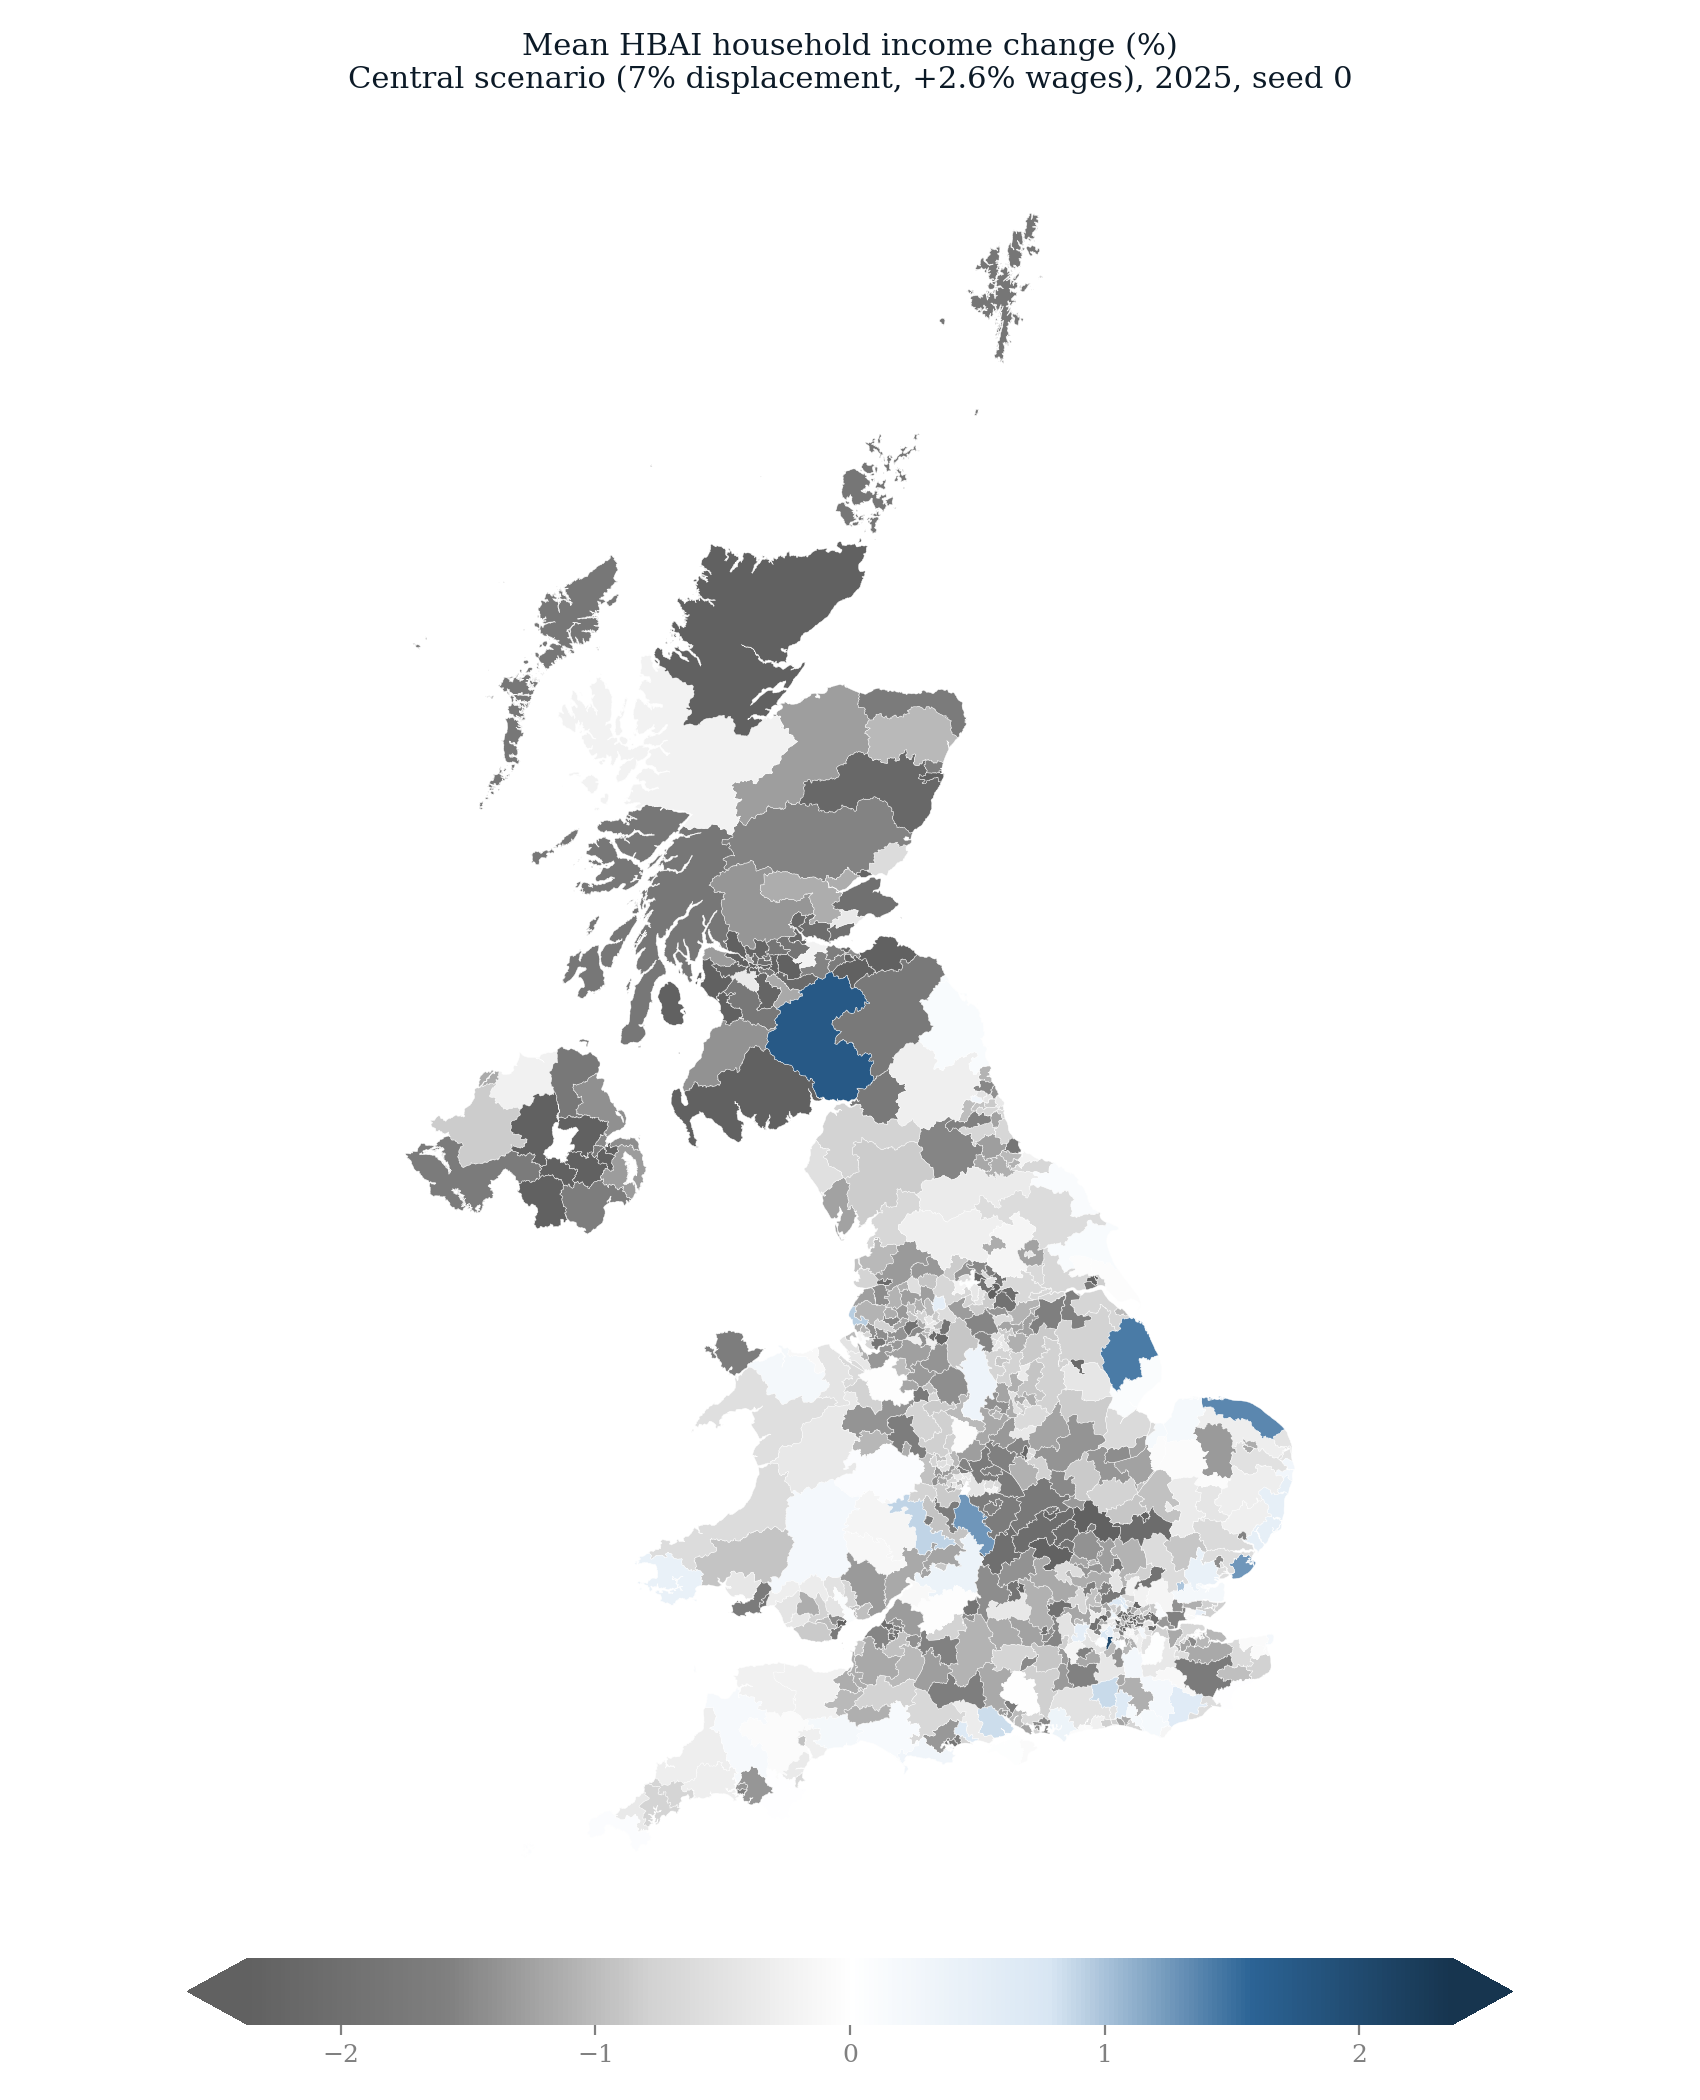
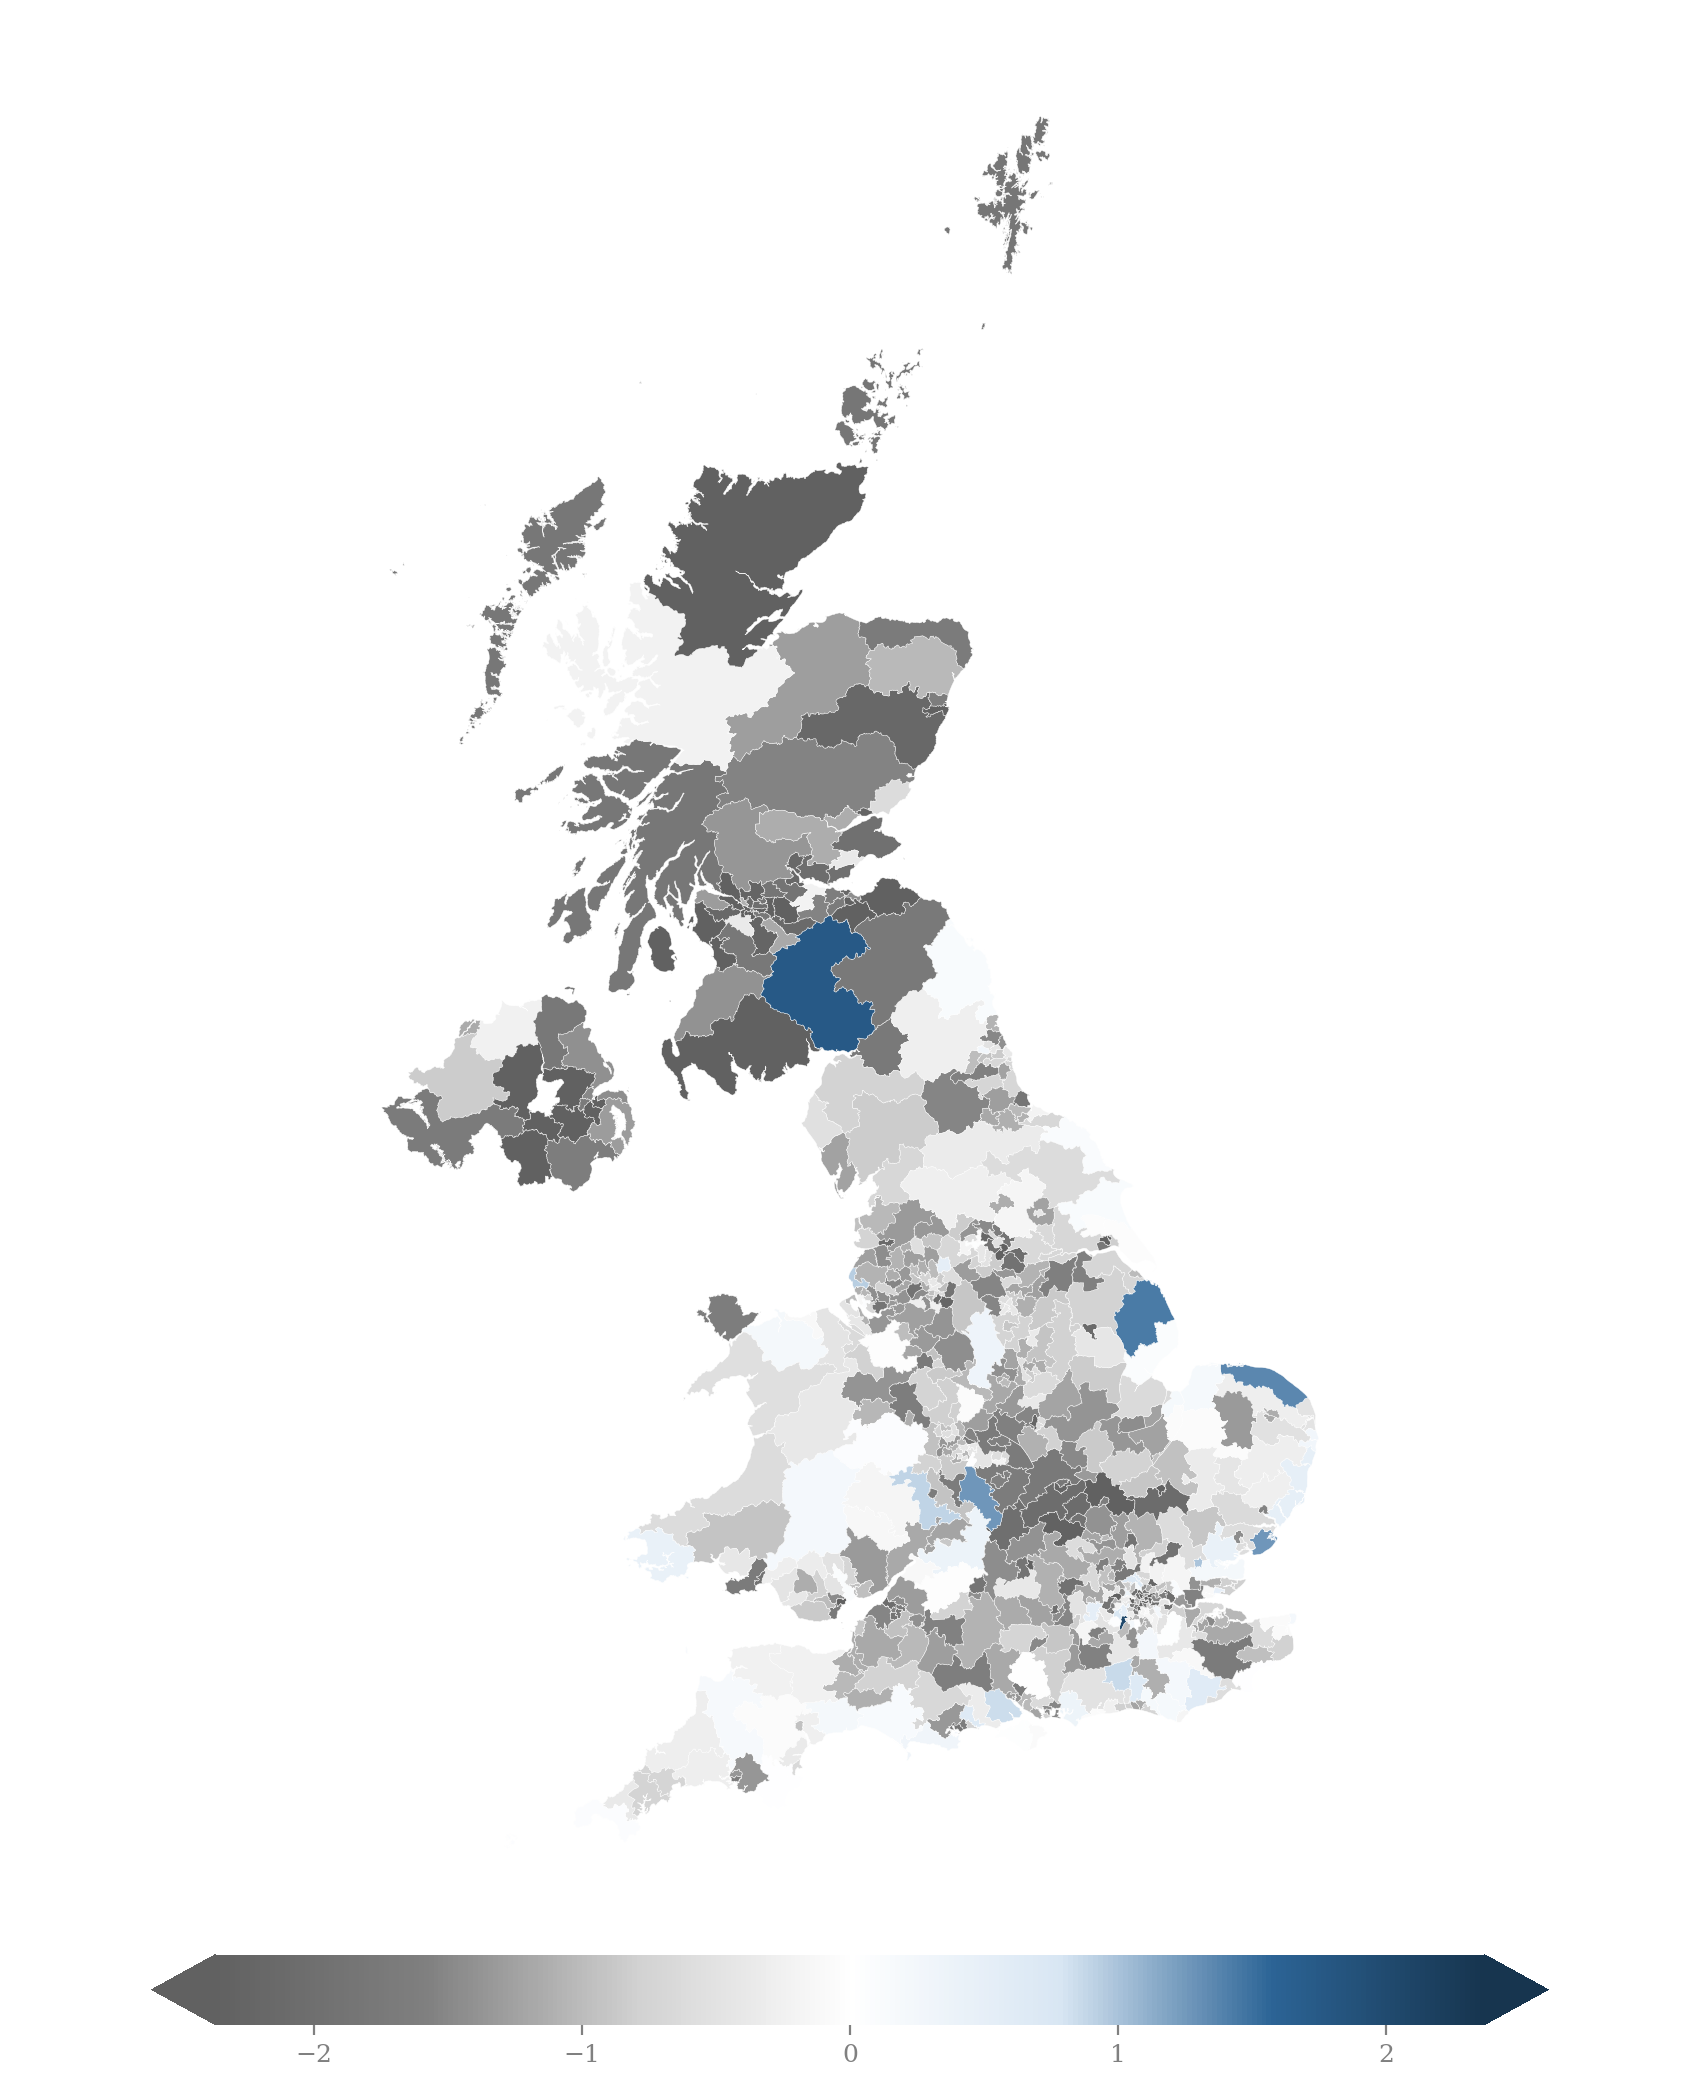
Fig 9 legend/title cleanup and shorter Limitations subsection
- Fig 9 maps: removed the in-figure titles (the caption covers both panels)
  and clipped the displacement scale to the 5th-95th percentile so both
  colourbars share the same capped shape
- Section 6.2 (Limitations and further work) condensed ~35%, all caveats kept

diff --git a/paper/sections/discussion.tex b/paper/sections/discussion.tex
@@ -26,16 +26,16 @@ Taken together, the tax-benefit system converts each market-income shock into a 
 \subsection{Limitations and further work}
 \label{sec:limitations}
 
-Several limitations qualify the results, and I state them plainly by pipeline stage, together with the measurement conventions a reader needs in order to compare my figures with official statistics.
+Several limitations qualify the results; I state them by pipeline stage, with the measurement conventions needed to compare my figures with official statistics.
 
-The first stage is the data and its weighting. All income results are on the HBAI cash disposable income concept at the household level, equivalised, and the poverty and inequality statistics share it; in computing the Gini I bottom-code negative equivalised incomes at zero. My baseline Gini is 0.309, below the official UK figure of roughly 0.34, because I use the plain Family Resources Survey without the Survey of Personal Incomes (SPI) adjustment that corrects for under-coverage of top incomes---so levels should not be compared directly with official statistics, though changes, the objects of interest, are computed on a consistent basis throughout. I also use the uncalibrated FRS grossing weights rather than PolicyEngine's enhanced dataset: the enhanced dataset improves aggregate fiscal accuracy through reweighting and household cloning, but cloning breaks the one-to-one correspondence between records and observed occupations on which the exposure join depends, so aggregate fiscal magnitudes carry the usual caveats attaching to unadjusted survey grossing. Finally, single-draw figures carry displacement-draw noise that the 20-draw averages do not, although the averaged runs indicate the aggregate magnitudes are stable across seeds; the seed conventions are set out in Section~\ref{sec:microsim} and Appendix~\ref{app:seeds}.
+The first stage is the data and its weighting. All results use the HBAI equivalised household disposable income concept, with the Gini computed after bottom-coding negative incomes at zero. My baseline Gini of 0.309 sits below the official 0.34 because I use the plain Family Resources Survey without the Survey of Personal Incomes (SPI) top-income adjustment, so levels are not comparable to official statistics even though the changes I report are computed on a consistent basis. I use the uncalibrated FRS grossing weights rather than PolicyEngine's enhanced dataset, whose household cloning would break the record-to-occupation correspondence the exposure join depends on; aggregate fiscal magnitudes therefore carry the usual survey-grossing caveats. Single-draw figures also carry displacement-draw noise that the 20-draw averages remove (seed conventions in Section~\ref{sec:microsim} and Appendix~\ref{app:seeds}).
 
-On exposure resolution and crosswalk provenance: occupational exposure is assigned at the 1-digit SOC level, because the Family Resources Survey records occupation only at the major-group level; within-group heterogeneity in AI exposure---substantial in the indices of \citet{felten2021}, \citet{webb2019} and \citet{eloundou2023}---is averaged away. The exposure scores themselves reach the FRS through a reconstructed pipeline: the complementarity adjustment is rebuilt from published sources (recovering the published ranking up to a level offset), and the US occupational scores are carried to SOC2020 through a chained SOC2018--SOC2010--ISCO--SOC2020 crosswalk with ASHE employment weights available for 340 of 412 unit groups. A UK-native task-based index (GAISI) built from British Skills and Employment Survey data now exists \citep{henseke2025}; adopting it, together with an imputation of detailed occupation from the Labour Force Survey, would remove the crosswalk and the resolution constraint at once, and is the first item on my agenda.
+Occupational exposure is assigned at the 1-digit SOC level, because the FRS records occupation only at the major-group level, so within-group heterogeneity in exposure \citep{felten2021, webb2019, eloundou2023} is averaged away. The scores also reach the FRS through a reconstructed pipeline---a rebuilt complementarity adjustment and a chained SOC2018--SOC2010--ISCO--SOC2020 crosswalk with ASHE weights for 340 of 412 unit groups. Adopting the UK-native GAISI index \citep{henseke2025} together with detailed-occupation imputation from the Labour Force Survey would remove both the crosswalk and the resolution constraint, and is my first priority.
 
-The displacement treatment is static: displaced workers are fully out of work in the simulated year---earnings, hours, employee pension contributions and salary sacrifice set to zero, no statutory pay, benefit entitlements recomputed under existing rules---while dual jobholders retain self-employment income. The duration structure of unemployment is not modelled, so the exhaustion of contributory benefits (new-style Jobseeker's Allowance is payable for at most six months) cannot be expressed; over longer horizons I overstate the support available to displaced workers without means-tested entitlements. Within the year, the sensitivity runs of Section~\ref{sec:results-aggregates} show duration is first-order---a six-month out-of-work spell cuts the fiscal cost by more than three-quarters and eliminates most of the poverty rise---whereas incomplete benefit take-up moves the headline numbers only marginally.
+The displacement treatment is static: displaced workers are fully out of work for the simulated year (earnings, hours, pension contributions and salary sacrifice zeroed, entitlements recomputed), while dual jobholders keep self-employment income. Unemployment duration is not modelled, so contributory-benefit exhaustion (new-style Jobseeker's Allowance lasts at most six months) is not captured, and over longer horizons I overstate support for displaced workers without means-tested entitlements. The sensitivity runs of Section~\ref{sec:results-aggregates} show duration is first-order---a six-month spell cuts the fiscal cost by more than three-quarters---whereas incomplete take-up barely moves the headline.
 
-The capital channel is measured narrowly: the capital-income measure covers only interest and dividends, excluding rental income and returns inside private pensions, and household surveys under-represent top incomes and capital income in particular. The concentration of capital income in the top decile that drives this channel is, if anything, understated. Linked administrative or wealth-survey data (the Wealth and Assets Survey) would sharpen it considerably.
+The capital channel is narrow: it covers only interest and dividends, excluding rental income and returns inside private pensions, and surveys under-represent top and capital incomes, so the top-decile concentration that drives this channel is if anything understated. Linked wealth data (the Wealth and Assets Survey) would sharpen it.
 
-All shock scenarios exclude the self-employed. Exposure indices and the displacement literature underpinning my parameters are defined over employees, and self-employed earnings dynamics under AI adoption may include both displacement and new opportunities; I exclude the group rather than impose an arbitrary treatment. Since self-employment is a meaningful share of UK employment and is concentrated in some exposed occupations, this is a substantive omission.
+All scenarios exclude the self-employed, over whom the exposure indices and displacement literature are not defined; since self-employment is a meaningful, partly exposed share of UK employment, this is a substantive omission.
 
-Finally, on mechanisms and anchors: where I attribute decile-level patterns to particular mechanisms---the thinness of savings buffers at the bottom, income pooling within couples---these attributions are hypotheses consistent with the data rather than results of a formal decomposition, and I flag them as such. The scenario anchors, likewise, are calibration conventions transported from headline estimates: the 1 per cent ``low'' cell is a sensitivity case rather than an employment estimate, and the 7 per cent displacement and 2.6 per cent wage figures convert task-exposure and productivity estimates into single-year shocks. As UK-specific evidence accumulates---early examples include \citet{kleinteeselink2025} and \citet{rockall2025}---the scenarios can be re-anchored, and the gap between scenario analysis and conditional forecast will narrow. But the paper's central lesson does not wait on that evidence: on whichever occupations an AI displacement shock ultimately falls, a welfare state financed by taxes on labour income can redistribute the resulting losses effectively but cannot, and will not, prevent them.
+Finally, the mechanisms I invoke for decile-level patterns---thin savings buffers at the bottom, income pooling within couples---are hypotheses consistent with the data, not formal decompositions, and the scenario anchors are calibration conventions: the 1 per cent ``low'' cell is a sensitivity case, and the 7 per cent displacement and 2.6 per cent wage figures convert task-exposure and productivity estimates into single-year shocks. As UK-specific evidence accumulates \citep{kleinteeselink2025, rockall2025} the scenarios can be re-anchored. But the central lesson does not wait on it: on whichever occupations an AI displacement shock ultimately falls, a welfare state financed by taxes on labour income can redistribute the resulting losses effectively but cannot, and will not, prevent them.

diff --git a/analysis/geo_choropleth.py b/analysis/geo_choropleth.py
@@ -52,16 +52,20 @@ def choropleth(gdf, col, title, path, diverging):
         cmap = figstyle.DIVERGING
         extend = "both"
     else:
-        norm = Normalize(vmin=float(np.nanmin(vals)), vmax=float(np.nanmax(vals)))
+        # clip to the 5th-95th percentile so the legend bar has the same
+        # capped shape as the diverging map
+        lo = float(np.nanpercentile(vals, 5))
+        hi = float(np.nanpercentile(vals, 95))
+        norm = Normalize(vmin=lo, vmax=hi)
         cmap = figstyle.SEQUENTIAL
-        extend = "neither"
+        extend = "both"
 
     fig, ax = plt.subplots(figsize=(8.5, 10.5))
     gdf.plot(column=col, cmap=cmap, norm=norm, ax=ax,
              edgecolor="white", linewidth=0.15)
     ax.set_aspect("equal")
     ax.axis("off")
-    ax.set_title(title + "\nCentral scenario (7% displacement, +2.6% wages), 2025, seed 0")
+    # No in-figure title; the Figure 9 caption describes both panels.
 
     sm = ScalarMappable(norm=norm, cmap=cmap)
     cbar = fig.colorbar(sm, ax=ax, orientation="horizontal",